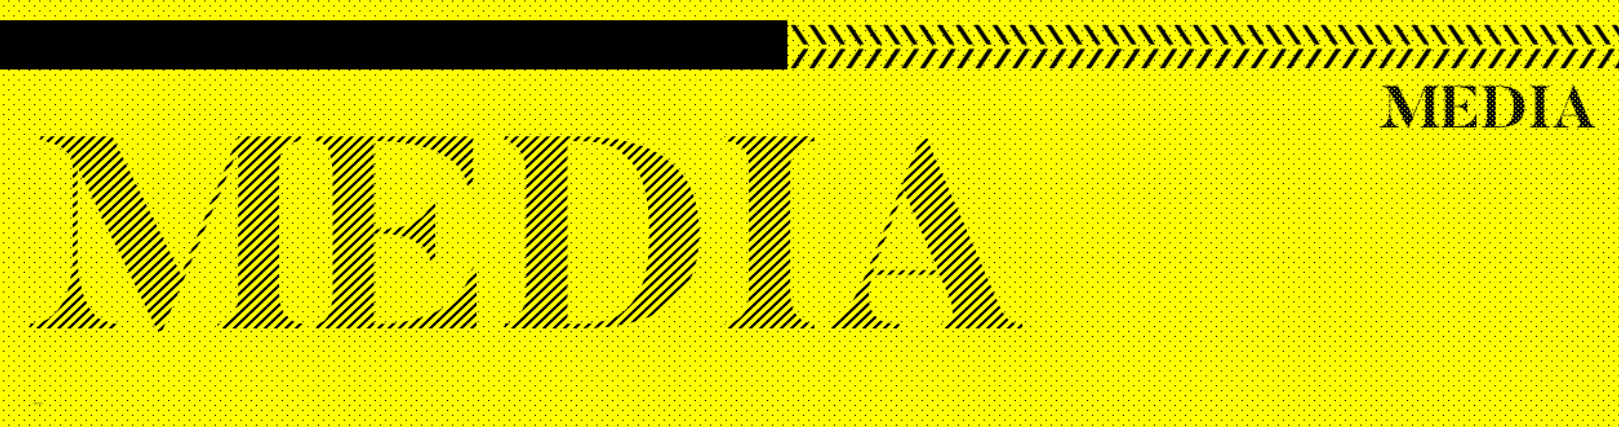
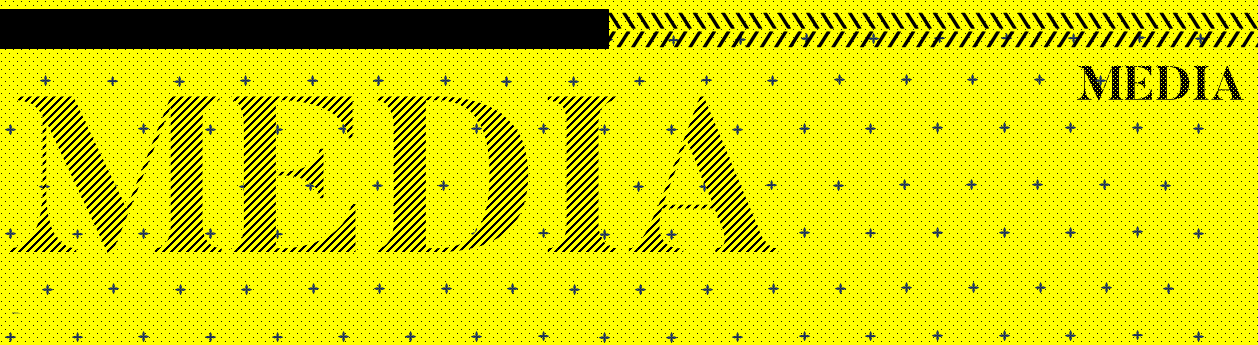
commit

Changed region(s): [[0.0, 0.0, 1.0, 1.0]]

diff --git a/public/index.html b/public/index.html
@@ -93,29 +93,39 @@
     <section id="news" class="news-section">
         <h2 class="section-news">NEWS</h2>
         <div class="news-lister">
-        <div class="news-list">
-            <div class="news-item">
-                <h3>Program Bantuan Pendidikan</h3>
-                <p>16 November 2024</p>
-                <p>Kami telah mendistribusikan lebih dari 500 paket bantuan pendidikan ke anak-anak di wilayah terpencil.</p>
-            </div>
-            <div class="news-item">
-                <h3>Kegiatan Buka Puasa Bersama</h3>
-                <p>10 November 2024</p>
-                <p>Lebih dari 1.000 orang bergabung dalam acara buka puasa bersama untuk meningkatkan solidaritas.</p>
-            </div>
-            <div class="news-item">
-                <h3>Donasi untuk Korban Banjir</h3>
-                <p>1 November 2024</p>
-                <p>Donasi sebesar Rp 1.5 Miliar telah diberikan untuk membantu korban banjir di wilayah Jabodetabek.</p>
+            <div class="news-list">
+                <div class="news-item">
+                    <img src="property/news1.jpg" alt="Program Bantuan Pendidikan">
+                    <div class="news-content">
+                        <h3>Program Bantuan Pendidikan</h3>
+                        <p class="date">16 November 2024</p>
+                        <p>Kami telah mendistribusikan lebih dari 500 paket bantuan pendidikan ke anak-anak di wilayah terpencil.</p>
+                    </div>
+                </div>
+                <div class="news-item">
+                    <img src="images/iftar.jpg" alt="Kegiatan Buka Puasa Bersama">
+                    <div class="news-content">
+                        <h3>Kegiatan Buka Puasa Bersama</h3>
+                        <p class="date">10 November 2024</p>
+                        <p>Lebih dari 1.000 orang bergabung dalam acara buka puasa bersama untuk meningkatkan solidaritas.</p>
+                    </div>
+                </div>
+                <div class="news-item">
+                    <img src="images/flood-relief.jpg" alt="Donasi untuk Korban Banjir">
+                    <div class="news-content">
+                        <h3>Donasi untuk Korban Banjir</h3>
+                        <p class="date">1 November 2024</p>
+                        <p>Donasi sebesar Rp 1.5 Miliar telah diberikan untuk membantu korban banjir di wilayah Jabodetabek.</p>
+                    </div>
+                </div>
             </div>
         </div>
-        </div>
-    </section>    
+    </section>
+      
     
     <section id="tentang" class="about-section">
-        <h2>Tentang Kami</h2>
-        <p>Bersama Kita Bisa adalah platform yang menghubungkan para donatur dengan organisasi dan individu yang membutuhkan. Kami percaya bahwa donasi bukan hanya tentang memberikan materi, tetapi juga tentang memberikan harapan dan peluang untuk masa depan yang lebih baik.</p>
+        <h2 class="section-about"></h2>
+        <div class="teamers">
         <div class="team">
             <div class="team-member">
                 <img src="property/Anton.jpg" alt="Founder">
@@ -138,11 +148,37 @@
                 <p>Operational Manager</p>
             </div>
             <div class="team-member">
+                <img src="property/Duta.jpeg" alt="Manager">
+                <h3>Duta</h3>
+                <p>Operational Manager</p>
+            </div>
+            <div class="team-member">
                 <img src="https://via.placeholder.com/150" alt="Manager">
                 <h3>Duta</h3>
                 <p>Operational Manager</p>
             </div>
+            <div class="team-member">
+                <img src="https://via.placeholder.com/150" alt="Manager">
+                <h3>Chin</h3>
+                <p>Operational Manager</p>
+            </div>
+            <div class="team-member">
+                <img src="https://via.placeholder.com/150" alt="Manager">
+                <h3>Nina</h3>
+                <p>Operational Manager</p>
+            </div>
+            <div class="team-member">
+                <img src="https://via.placeholder.com/150" alt="Manager">
+                <h3>Chandrika</h3>
+                <p>Operational Manager</p>
+            </div>
+            <div class="team-member">
+                <img src="https://via.placeholder.com/150" alt="Manager">
+                <h3>Inggi</h3>
+                <p>Operational Manager</p>
+            </div>
         </div>
+    </div>
     </section>    
 
     <section id="features" class="features">

diff --git a/public/style.css b/public/style.css
@@ -306,7 +306,7 @@ button:hover {
     background-repeat: no-repeat;
     background-color: rgba(255, 255, 255, 0);
     background-blend-mode: overlay;
-    padding: 280px 30px 10px 20px;
+    padding: 280px 40px 21px 20px;
     width: 100vw;
     border-bottom: 4px solid transparent;
     position: relative;
@@ -381,7 +381,7 @@ button:hover {
     background-repeat: no-repeat;
     background-color: rgba(255, 255, 255, 0);
     background-blend-mode: overlay;
-    padding: 300px 30px 10px 20px;
+    padding: 300px 60px 2px 20px;
     width: 100vw;
     border-bottom: 4px solid transparent;
     position: relative;
@@ -395,35 +395,83 @@ button:hover {
 }
 
 .news-list {
-    display: flex;
-    flex-direction: column;
-    gap: 20px;
-    margin-top: 20px;
+    display: grid;
+    grid-template-columns: repeat(auto-fit, minmax(300px, 1fr)); 
+    gap: 30px;
+    max-width: 1200px;
+    margin: 0 auto;
 }
+
 .news-item {
-    background: #f8f8f8;
-    padding: 20px;
-    border-radius: 8px;
-    box-shadow: 0 4px 8px rgba(0, 0, 0, 0.1);
+    background: #ffffff;
+    border-radius: 0px;
+    overflow: hidden;
+    box-shadow: 0 8px 16px rgba(0, 0, 0, 0.1);
     transition: transform 0.3s ease, box-shadow 0.3s ease;
 }
-.news-item:hover {
-    transform: translateY(-5px);
-    box-shadow: 0 8px 16px rgba(0, 0, 0, 0.2);
+
+.news-item img {
+    width: 100%;
+    height: 180px;
+    object-fit: cover;
 }
+
+.news-content {
+    padding: 20px;
+}
+
 .news-item h3 {
-    margin-bottom: 10px;
+    font-size: 1.5rem;
     color: #333;
+    margin-bottom: 10px;
 }
+
+.news-item .date {
+    font-size: 0.9rem;
+    color: #888;
+    margin-bottom: 15px;
+}
+
 .news-item p {
-    margin: 5px 0;
+    font-size: 1rem;
     color: #555;
 }
+
+.news-item:hover {
+    transform: translateY(-10px);
+    box-shadow: 0 16px 32px rgba(0, 0, 0, 0.2);
+}
 .team {
-    display: flex;
-    justify-content: center;
+    display: grid;
+    grid-template-columns: repeat(5, 1fr);  
     gap: 20px;
-    margin-top: 20px;
+    max-width: 1000px;  
+    margin: 0 auto;
+}
+.about-section{
+    text-align: Right;
+    color: #000000;
+    padding: 40px 20px;
+}
+.section-about{
+    font-family: Butler;
+    font-size: 5rem;
+    font-weight: bold;
+    text-align:right;
+    margin-bottom: 1px;
+    color: #040404;
+    align-items: left;
+    z-index: 1;
+    background-image: url('background/About.png');
+    background-size:contain; 
+    background-position: auto; 
+    background-repeat: no-repeat;
+    background-color: rgba(255, 255, 255, 0);
+    background-blend-mode: overlay;
+    padding: 295px 40px 40px 20px;
+    width: 100vw;
+    border-bottom: 2px solid transparent;
+    position: relative;
 }
 .team-member {
     text-align: center;
@@ -475,7 +523,7 @@ button:hover {
 
 .features {
     text-align: center;
-    padding: 40px 20px;
+    padding: 40px 40px;
     background-color: #ffffff;
     box-shadow: 0 -4px 10px rgba(0, 0, 0, 0.1);
 }
